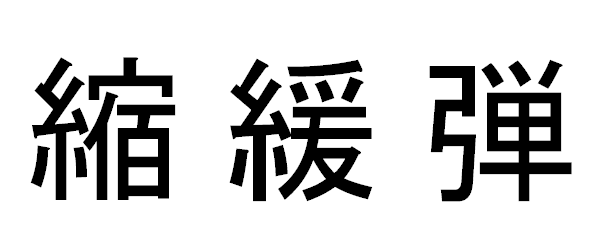
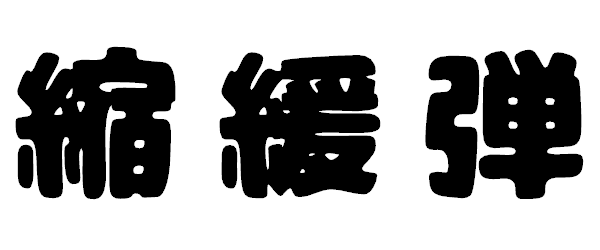
タイトルバーを3秒間表示させてからイージングさせるように変更。リソースの変更

diff --git a/TitleScene.cpp b/TitleScene.cpp
@@ -31,7 +31,7 @@ void TitleScene::Initialize()
 	InitRectPostion();
 
 	// ui
-	uiTexID_ = Novice::LoadTexture("titleUI.png");
+	uiTexID_ = Novice::LoadTexture("titleUI_white.png");
 
 	// 矩形の初期サイズを設定
 	width_ = originalWidth_;
@@ -110,14 +110,16 @@ void TitleScene::InitRectPostion()
 
 void TitleScene::UpdateRectPostition()
 {	
-	// 縮小と拡大の段階を設定
-	// // 縮小の持続時間
-	const float shrinkDuration = 10.0f;  
+	// 元のサイズと縮小と拡大の段階を設定<秒>
+	// 元のサイズを保持する時間
+	const float holdDuration = 3.0f;
+	// 縮小の持続時間
+	const float shrinkDuration = 8.0f;  
 	// 拡大の持続時間
-	const float expandDuration = 6.0f;  
+	const float expandDuration = 5.0f;  
 
 	// カウンターを進行度に変換（0から1の間）
-	float totalDuration = shrinkDuration + expandDuration;
+	float totalDuration = holdDuration + shrinkDuration + expandDuration;
 	float t = counter_ / totalDuration;
 
 	// アニメーションがループするようにリセット
@@ -128,20 +130,24 @@ void TitleScene::UpdateRectPostition()
 		t = 0.0f;
 	}
 
-	// 縮小と拡大のステージを決定
-	float scale;
-	if (t < (shrinkDuration / totalDuration)) {
-		// 縮小段階 (0からshrinkDurationの間)  
-		// 0から1に正規化
-		float shrinkT = t / (shrinkDuration / totalDuration); 
-		// 1から0に
-		scale = 1.0f - easeOutBounce(shrinkT); 
+	// スケールの変化を管理
+	float scale = 1.0f;
+
+	if (t < (holdDuration / totalDuration)) {
+		// 元のサイズを保持する段階 (0からholdDurationの間)
+		// 何もしないので scale は 1.0f のまま
+	} else if (t < (holdDuration + shrinkDuration) / totalDuration) {
+		// 縮小段階 (holdDurationからshrinkDurationの間)
+		// 進行度を0から1に正規化
+		float shrinkT = (t - (holdDuration / totalDuration)) / (shrinkDuration / totalDuration);
+		// 1から0に変化
+		scale = 1.0f - easeOutBounce(shrinkT);
 	} else {
 		// 拡大段階 (shrinkDurationからtotalDurationの間)
-		// 0から1に正規化
-		float expandT = (t - (shrinkDuration / totalDuration)) / (expandDuration / totalDuration); 
-		// 0から1に 
-		scale = easeOutBounce(expandT);  
+		// 進行度を0から1に正規化
+		float expandT = (t - (holdDuration + shrinkDuration) / totalDuration) / (expandDuration / totalDuration);
+		// 0から1に変化
+		scale = easeOutBounce(expandT);
 	}
 
 	// 新しい幅と高さを計算
